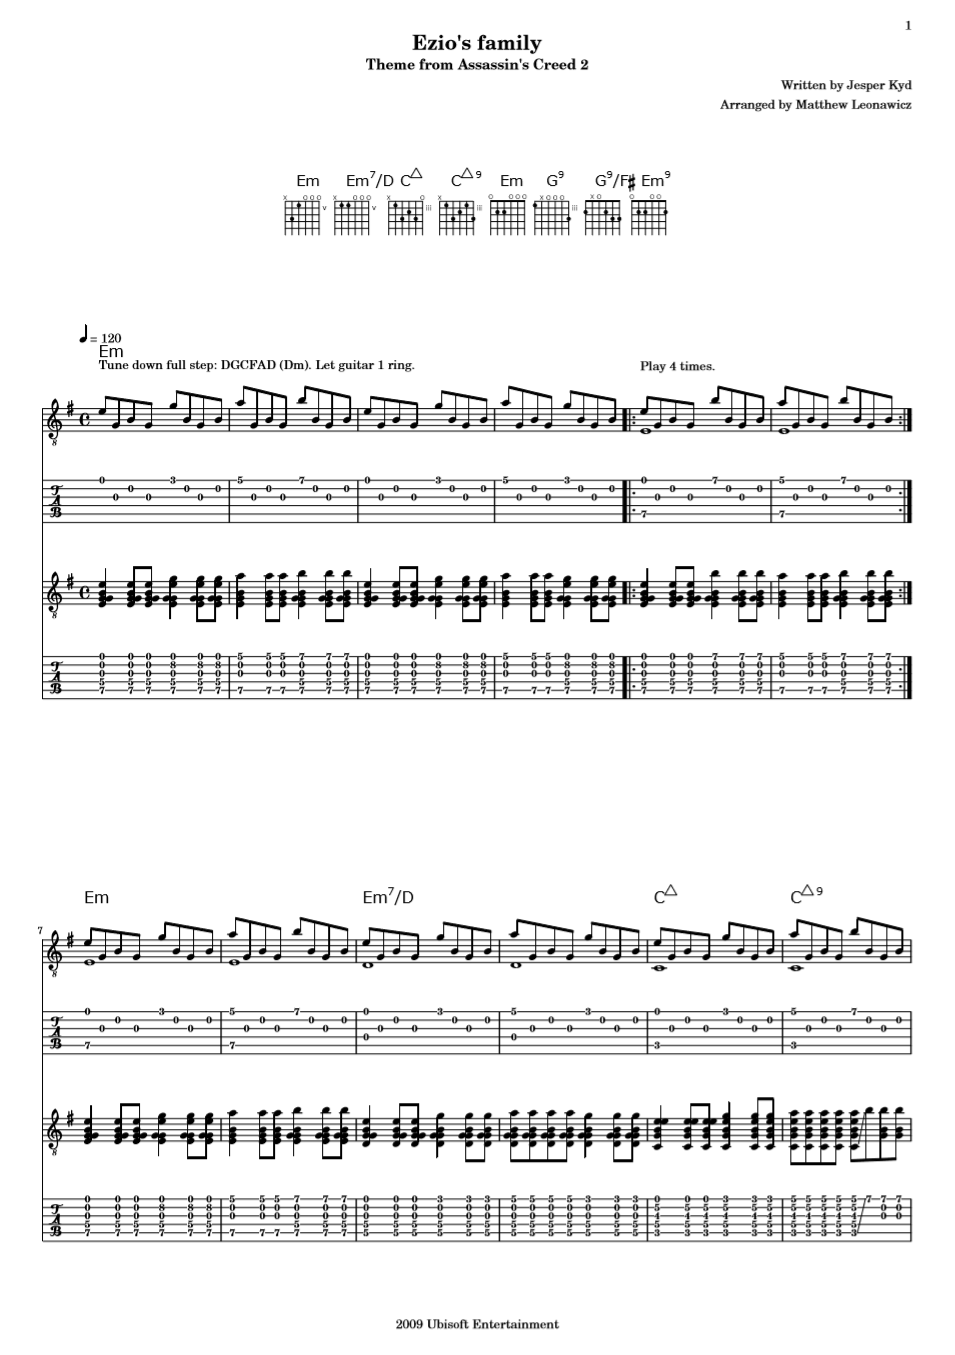
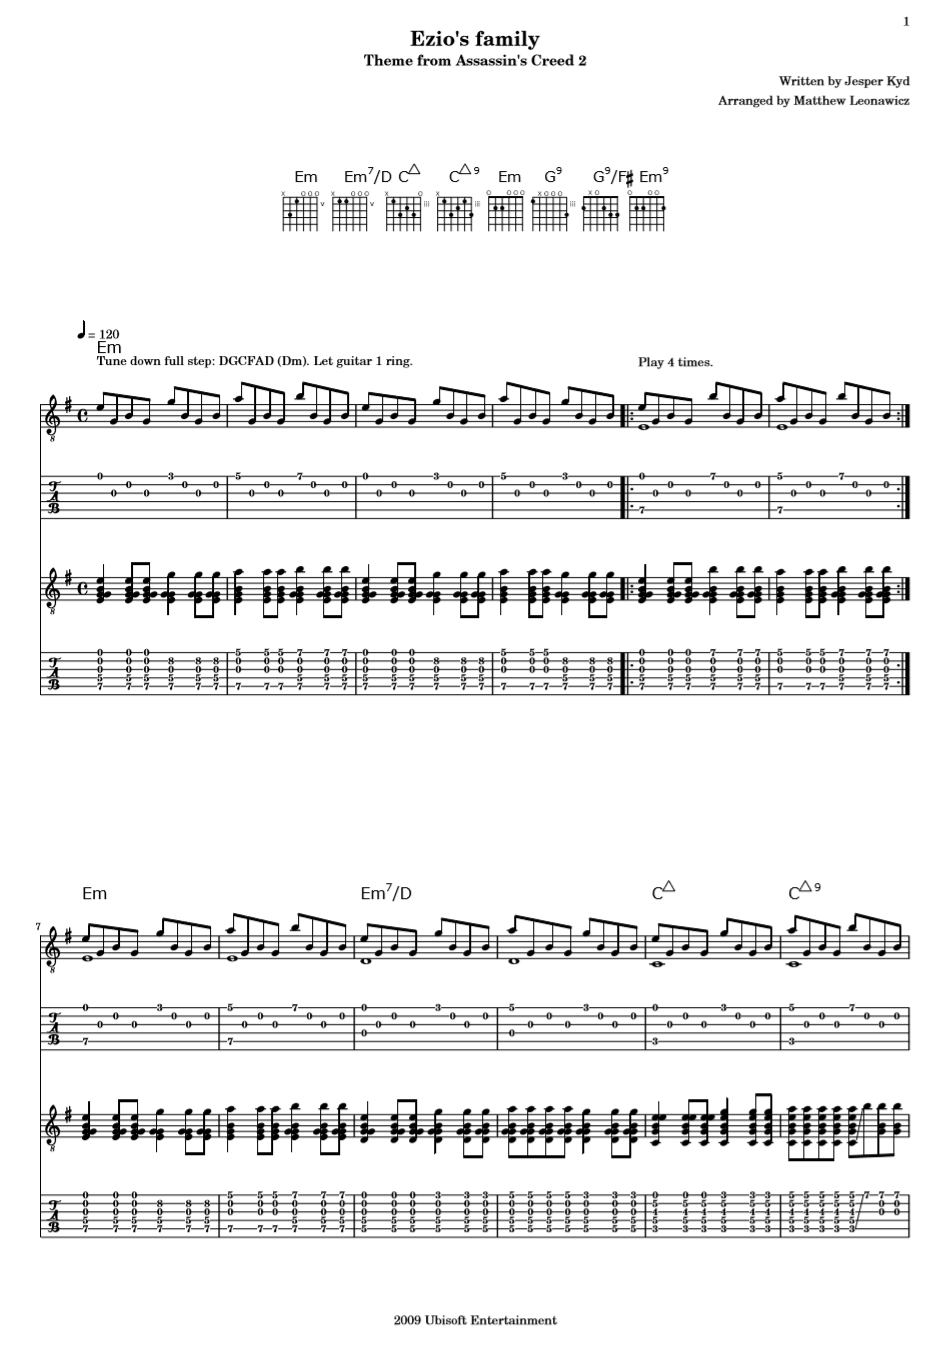
Fix transcription error in example.

diff --git a/docs/articles/tabr-ex3.html b/docs/articles/tabr-ex3.html
@@ -277,27 +277,25 @@ i2 &lt;-<span class="st"> </span><span class="kw"><a href="../reference/append_p
 i3 &lt;-<span class="st"> </span><span class="kw"><a href="../reference/append_phrases.html">glue</a></span>(i, i, <span class="st">"8*4 8- 8*3"</span>)
 i4 &lt;-<span class="st"> </span><span class="kw"><a href="../reference/append_phrases.html">glue</a></span>(i, i, i, <span class="st">"8 8 4"</span>)
 
-s1 &lt;-<span class="st"> "5s*6 5321*3 5s*3"</span>
-s2 &lt;-<span class="st"> "5s*13"</span>
-s3 &lt;-<span class="st"> "5s*11 1 3s 3s"</span>
-s4 &lt;-<span class="st"> "6s*6 64321*6"</span></code></pre></div>
+s1 &lt;-<span class="st"> "5s*13"</span>
+s2 &lt;-<span class="st"> "6s*6 64321*6"</span></code></pre></div>
 <p>Explicit chords require more typing than single notes so it is especially helpful to make use of the <code>*</code> in-string expansion operator where possible.</p>
 <p>As mentioned, for comparison, this guitar part is tabbed out using string-fret notation. This means for example that instead of specifying the pitch <code>e2</code> or <code>e,</code> along with the string number to play it on, <code>6</code>, you can specify string <code>6</code> and fret <code>2</code> (assuming the default <code>tuning = "standard"</code>). Instead of <code>phrase</code> or its alias <code>p</code>, use <code>sf_phrase</code> or <code>sfp</code>.</p>
-<div class="sourceCode"><pre class="sourceCode r"><code class="sourceCode r">p1a &lt;-<span class="st"> </span><span class="kw"><a href="../reference/sf_phrase.html">sfp</a></span>(s1, <span class="st">"75000*3 75080*3 7005*3 75007*3"</span>, i1)
-p1a2 &lt;-<span class="st"> </span><span class="kw"><a href="../reference/sf_phrase.html">sfp</a></span>(s1, <span class="st">"75000*3 75080*3 7005*3 75080*3"</span>, i1)
-p0 &lt;-<span class="st"> </span><span class="kw"><a href="../reference/repeats.html">volta</a></span>(<span class="kw"><a href="../reference/sf_phrase.html">sfp</a></span>(s1, <span class="st">"75000*3 75007*3 7005*3 75007*3"</span>, i1), <span class="dv">3</span>, <span class="dt">silent =</span> <span class="ot">TRUE</span>)
+<div class="sourceCode"><pre class="sourceCode r"><code class="sourceCode r">p1a &lt;-<span class="st"> </span><span class="kw"><a href="../reference/sf_phrase.html">sfp</a></span>(<span class="st">"5s*3 5432*3 5321*3 5s*3"</span>, <span class="st">"75000*3 7508*3 7005*3 75007*3"</span>, i1)
+p1a2 &lt;-<span class="st"> </span><span class="kw"><a href="../reference/sf_phrase.html">sfp</a></span>(<span class="st">"5s*3 5432*3 5321*3 5432*3"</span>, <span class="st">"75000*3 7508*3 7005*3 7508*3"</span>, i1)
+p0 &lt;-<span class="st"> </span><span class="kw"><a href="../reference/repeats.html">volta</a></span>(<span class="kw"><a href="../reference/sf_phrase.html">sfp</a></span>(<span class="st">"5s*6 5321*3 5s*3"</span>, <span class="st">"75000*3 75007*3 7005*3 75007*3"</span>, i1), <span class="dv">3</span>, <span class="dt">silent =</span> <span class="ot">TRUE</span>)
 
-p1b &lt;-<span class="st"> </span><span class="kw"><a href="../reference/sf_phrase.html">sfp</a></span>(s2, <span class="st">"55000*3 55003*3 55005*4 55003*3"</span>, i2)
-p1c &lt;-<span class="st"> </span><span class="kw"><a href="../reference/sf_phrase.html">sfp</a></span>(s3, <span class="st">"35450*3 35453*3 35455*5 7 007*2"</span>, i3)
-p1d &lt;-<span class="st"> </span><span class="kw"><a href="../reference/sf_phrase.html">sfp</a></span>(s4, <span class="st">"022000*3 022003*3 30005*3 20233*3"</span>, i4)
-p1d2 &lt;-<span class="st"> </span><span class="kw"><a href="../reference/sf_phrase.html">sfp</a></span>(s4, <span class="st">"022000*3 022002*3 20233*3 30005*3"</span>, i1)
+p1b &lt;-<span class="st"> </span><span class="kw"><a href="../reference/sf_phrase.html">sfp</a></span>(s1, <span class="st">"55000*3 55003*3 55005*4 55003*3"</span>, i2)
+p1c &lt;-<span class="st"> </span><span class="kw"><a href="../reference/sf_phrase.html">sfp</a></span>(<span class="st">"5s*11 1 3s 3s"</span>, <span class="st">"35450*3 35453*3 35455*5 7 007*2"</span>, i3)
+p1d &lt;-<span class="st"> </span><span class="kw"><a href="../reference/sf_phrase.html">sfp</a></span>(s2, <span class="st">"022000*3 022003*3 30005*3 20233*3"</span>, i4)
+p1d2 &lt;-<span class="st"> </span><span class="kw"><a href="../reference/sf_phrase.html">sfp</a></span>(s2, <span class="st">"022000*3 022002*3 20233*3 30005*3"</span>, i1)
 
 p2 &lt;-<span class="st"> </span><span class="kw"><a href="../reference/append_phrases.html">glue</a></span>(p1a, p1b, p1c, p1d)
 p3 &lt;-<span class="st"> </span><span class="kw"><a href="../reference/repeats.html">volta</a></span>(<span class="kw"><a href="../reference/append_phrases.html">glue</a></span>(p1a, p1b, p1c), <span class="dv">1</span>, <span class="kw"><a href="https://www.rdocumentation.org/packages/base/topics/list">list</a></span>(p1d, p1d2), <span class="ot">TRUE</span>)
 
-p4 &lt;-<span class="st"> </span><span class="kw"><a href="../reference/append_phrases.html">glue</a></span>(<span class="kw"><a href="../reference/sf_phrase.html">sfp</a></span>(<span class="st">"5s*12"</span>, <span class="st">"75000*12"</span>, i1), <span class="kw"><a href="../reference/sf_phrase.html">sfp</a></span>(s2, <span class="st">"55000*13"</span>, i2), <span class="kw"><a href="../reference/sf_phrase.html">sfp</a></span>(s2, <span class="st">"35450*13"</span>, i2), <span class="kw"><a href="../reference/sf_phrase.html">sfp</a></span>(s4, <span class="st">"022000*6 30005*3 20233*3"</span>, i4))
+p4 &lt;-<span class="st"> </span><span class="kw"><a href="../reference/append_phrases.html">glue</a></span>(<span class="kw"><a href="../reference/sf_phrase.html">sfp</a></span>(<span class="st">"5s*12"</span>, <span class="st">"75000*12"</span>, i1), <span class="kw"><a href="../reference/sf_phrase.html">sfp</a></span>(s1, <span class="st">"55000*13"</span>, i2), <span class="kw"><a href="../reference/sf_phrase.html">sfp</a></span>(s1, <span class="st">"35450*13"</span>, i2), <span class="kw"><a href="../reference/sf_phrase.html">sfp</a></span>(s2, <span class="st">"022000*6 30005*3 20233*3"</span>, i4))
 
-p5 &lt;-<span class="st"> </span><span class="kw"><a href="../reference/sf_phrase.html">sfp</a></span>(<span class="st">"6s~ 6s 5s*14"</span>, <span class="st">"022000~ 022000 75000*3 75080*3 75007 75000 75008 75000 75080 75000 75007 75000"</span>, <span class="st">"1 1 4 8 8 4 8*10"</span>)
+p5 &lt;-<span class="st"> </span><span class="kw"><a href="../reference/sf_phrase.html">sfp</a></span>(<span class="st">"6s~ 6s 5s*3 5432*3 5s*4 5432 5s*3"</span>, <span class="st">"022000~ 022000 75000*3 7508*3 75007 75000 75008 75000 7508 75000 75007 75000"</span>, <span class="st">"1 1 4 8 8 4 8*10"</span>)
 
 p6 &lt;-<span class="st"> </span><span class="kw"><a href="../reference/append_phrases.html">dup</a></span>(<span class="kw"><a href="../reference/sf_phrase.html">sfp</a></span>(<span class="st">"5s*12"</span>, <span class="st">"75000*12"</span>, i1), <span class="dv">3</span>)
 p7 &lt;-<span class="st"> </span><span class="kw"><a href="../reference/append_phrases.html">dup</a></span>(<span class="kw"><a href="../reference/sf_phrase.html">sfp</a></span>(<span class="st">"6s*12"</span>, <span class="st">"022000*12"</span>, i1), <span class="dv">4</span>)
